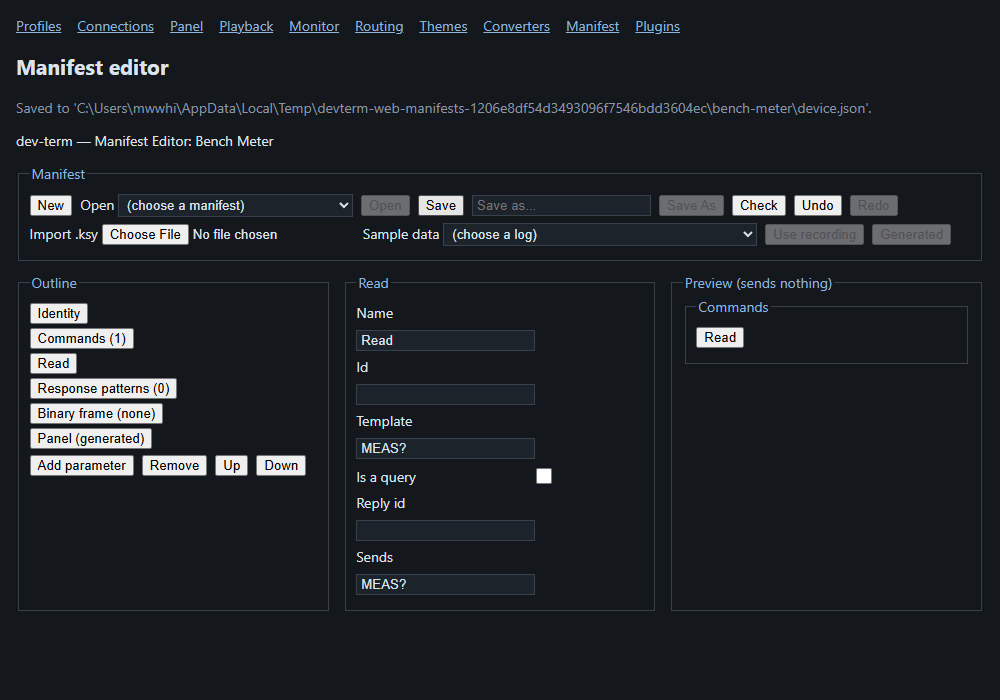
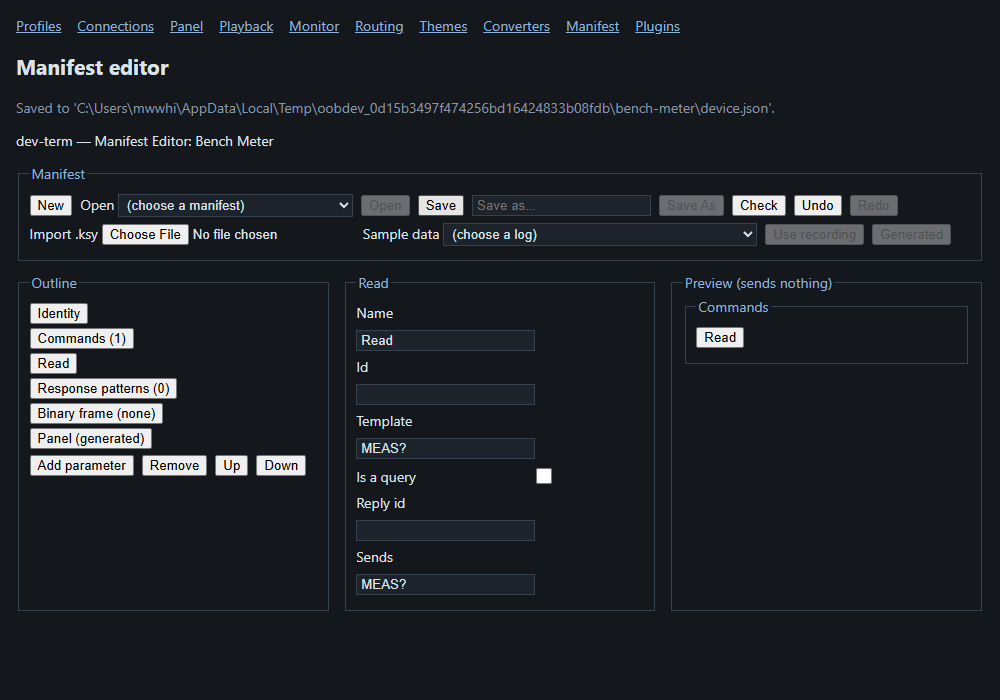
Take the Web test folders and files from the temp handles

Changed region(s): [[0.31, 0.15, 0.868, 0.18]]

diff --git a/src/Applications/DevTerm/OoBDev.DevTerm.Web.Tests/WebScreenshotTests.cs b/src/Applications/DevTerm/OoBDev.DevTerm.Web.Tests/WebScreenshotTests.cs
@@ -109,7 +109,7 @@ public class WebScreenshotTests
 
     private static string BenchProject()
     {
-        var file = Path.Combine(Path.GetTempPath(), $"devterm-web-shot-{Guid.NewGuid():N}.json");
+        var file = WebTestTemp.File("bench.json");
         ProjectFile.From("Bench", [("Scope", new CliOptions { Transport = "loopback", Presenter = ["ascii"] }), ("Supply", new CliOptions { Transport = "loopback", Presenter = ["hex"] })]).Save(file);
         return file;
     }
@@ -117,8 +117,7 @@ public class WebScreenshotTests
     /// <summary>A small session log in a temp folder: connect, send "hello", a reply, then a note-free close.</summary>
     internal static string SampleLogs()
     {
-        var dir = Path.Combine(Path.GetTempPath(), $"devterm-web-logs-{Guid.NewGuid():N}");
-        Directory.CreateDirectory(dir);
+        var dir = WebTestTemp.Directory();
         var t0 = new DateTimeOffset(2026, 10, 8, 12, 0, 0, TimeSpan.Zero);
         var header = new OoBDev.DevTerm.Logging.SessionLogHeader { Created = t0, Connection = "loopback", Profile = "Scope", Presenters = ["ascii"] };
         OoBDev.DevTerm.Logging.SessionLogRecord Rec(OoBDev.DevTerm.Logging.SessionLogRecordKind kind, int ms, string? data = null) =>
@@ -184,7 +183,7 @@ public class WebScreenshotTests
     [TestMethod]
     public async Task ThemesPage_BuildsAndSavesATheme()
     {
-        var themes = Path.Combine(Path.GetTempPath(), "devterm-web-themes-" + Guid.NewGuid().ToString("N"));
+        var themes = WebTestTemp.Directory();
         await RunAsync(async (page, baseUrl) =>
         {
             await page.GotoAsync($"{baseUrl}/themes?token=demo-token");
@@ -230,7 +229,7 @@ public class WebScreenshotTests
     [TestMethod]
     public async Task ConvertersPage_AddsATool_ValidatesAndSaves()
     {
-        var file = Path.Combine(Path.GetTempPath(), "devterm-web-conv-" + Guid.NewGuid().ToString("N") + ".json");
+        var file = WebTestTemp.File("converters.json");
         await RunAsync(async (page, baseUrl) =>
         {
             await page.GotoAsync($"{baseUrl}/converters?token=demo-token");
@@ -273,7 +272,7 @@ public class WebScreenshotTests
     [TestMethod]
     public async Task PluginsPage_ApprovesAWaitingPluginLive_ThenForgetsIt()
     {
-        var home = Path.Combine(Path.GetTempPath(), $"devterm-web-plugins-{Guid.NewGuid():N}");
+        var home = WebTestTemp.Directory();
         var folder = Path.Combine(home, "plugins", "shout");
         Directory.CreateDirectory(folder);
         File.WriteAllText(Path.Combine(folder, "shout.py"), "print('x')");
@@ -312,7 +311,7 @@ public class WebScreenshotTests
     [TestMethod]
     public async Task PluginsPage_ReadOnlyViewer_CannotApprove()
     {
-        var home = Path.Combine(Path.GetTempPath(), $"devterm-web-plugins-{Guid.NewGuid():N}");
+        var home = WebTestTemp.Directory();
         var folder = Path.Combine(home, "plugins", "shout");
         Directory.CreateDirectory(folder);
         File.WriteAllText(Path.Combine(folder, "shout.py"), "print('x')");
@@ -343,7 +342,7 @@ public class WebScreenshotTests
     [TestMethod]
     public async Task ManifestPage_BuildsAManifest_ChecksAndSavesIt()
     {
-        var folder = Path.Combine(Path.GetTempPath(), $"devterm-web-manifests-{Guid.NewGuid():N}");
+        var folder = WebTestTemp.Directory();
         await RunAsync(async (page, baseUrl) =>
         {
             await page.GotoAsync($"{baseUrl}/manifest?token=demo-token");
@@ -377,7 +376,7 @@ public class WebScreenshotTests
     [TestMethod]
     public async Task ManifestPage_ImportsAKsyUpload_AndOffersTheRecordings()
     {
-        var folder = Path.Combine(Path.GetTempPath(), $"devterm-web-manifests-{Guid.NewGuid():N}");
+        var folder = WebTestTemp.Directory();
         await RunAsync(async (page, baseUrl) =>
         {
             await page.GotoAsync($"{baseUrl}/manifest?token=demo-token");
@@ -405,7 +404,7 @@ public class WebScreenshotTests
     [TestMethod]
     public async Task ManifestPage_PreviewsThePanel_PicksValues_AndSavesACopy()
     {
-        var folder = Path.Combine(Path.GetTempPath(), $"devterm-web-manifests-{Guid.NewGuid():N}");
+        var folder = WebTestTemp.Directory();
         await RunAsync(async (page, baseUrl) =>
         {
             await page.GotoAsync($"{baseUrl}/manifest?token=demo-token");

diff --git a/src/Applications/DevTerm/OoBDev.DevTerm.Web.Tests/WebTestTemp.cs b/src/Applications/DevTerm/OoBDev.DevTerm.Web.Tests/WebTestTemp.cs
@@ -1,0 +1,33 @@
+using System;
+using System.Collections.Concurrent;
+using Microsoft.VisualStudio.TestTools.UnitTesting;
+using OoBDev.System.IO;
+
+namespace OoBDev.DevTerm.Web.Tests;
+
+/// <summary>Temp folders and files for helpers that hand a path to a web host and outlive a single test; disposed once at the end of the run.</summary>
+[TestClass]
+public static class WebTestTemp
+{
+    private static readonly ConcurrentBag<IDisposable> _handles = [];
+
+    /// <summary>A new, empty temp folder.</summary>
+    public static string Directory()
+    {
+        var handle = new TempDirectoryHandle();
+        _handles.Add(handle);
+        return handle.DirectoryPath;
+    }
+
+    /// <summary>A path for a file inside a new temp folder.</summary>
+    public static string File(string name) => global::System.IO.Path.Combine(Directory(), name);
+
+    [AssemblyCleanup]
+    public static void DeleteAll()
+    {
+        while (_handles.TryTake(out var handle))
+        {
+            handle.Dispose();
+        }
+    }
+}

diff --git a/src/Applications/DevTerm/OoBDev.DevTerm.Web.Tests/WebLayoutReviewTests.cs b/src/Applications/DevTerm/OoBDev.DevTerm.Web.Tests/WebLayoutReviewTests.cs
@@ -164,7 +164,7 @@ public sealed class WebLayoutReviewTests
             await client.GetStream().WriteAsync(WebScreenshotTests.SampleBitmap());
             await Task.Delay(5000);
         });
-        var options = new CliOptions { Transport = "tcp", Host = "127.0.0.1", Port = ((IPEndPoint)device.LocalEndpoint).Port.ToString(global::System.Globalization.CultureInfo.InvariantCulture), Presenter = ["hex"], Tui = false, Cli = true, ExportDirectory = Path.Combine(Path.GetTempPath(), $"devterm-web-exports-{Guid.NewGuid():N}") };
+        var options = new CliOptions { Transport = "tcp", Host = "127.0.0.1", Port = ((IPEndPoint)device.LocalEndpoint).Port.ToString(global::System.Globalization.CultureInfo.InvariantCulture), Presenter = ["hex"], Tui = false, Cli = true, ExportDirectory = WebTestTemp.Directory() };
         var problems = await ReviewAsync("light", width, height, async (page, baseUrl) =>
         {
             await page.GotoAsync($"{baseUrl}/monitor?token=demo-token");

diff --git a/src/Applications/DevTerm/OoBDev.DevTerm.Web.Tests/AspireMetricsTests.cs b/src/Applications/DevTerm/OoBDev.DevTerm.Web.Tests/AspireMetricsTests.cs
@@ -48,7 +48,7 @@ public sealed class AspireMetricsTests
         await page.GotoAsync("http://127.0.0.1:18888/metrics/resource/devterm");
         await page.WaitForTimeoutAsync(5000);
         var text = await page.InnerTextAsync("body");
-        File.WriteAllText(Path.Combine(Path.GetTempPath(), "aspire-metrics.txt"), text);
+        File.WriteAllText(WebTestTemp.File("aspire-metrics.txt"), text);
         StringAssert.Contains(text, "devterm.bytes.sent");
     }
 }

diff --git a/src/Applications/DevTerm/OoBDev.DevTerm.Web.Tests/WebUserFlowTests.cs b/src/Applications/DevTerm/OoBDev.DevTerm.Web.Tests/WebUserFlowTests.cs
@@ -29,7 +29,7 @@ public sealed class WebUserFlowTests : UserFlowTestsBase
 {
     private static string FlowProject()
     {
-        var file = Path.Combine(Path.GetTempPath(), $"devterm-web-flow-{Guid.NewGuid():N}.json");
+        var file = WebTestTemp.File("flow.json");
         ProjectFile.From("Flow", [("Fresh", new CliOptions { Transport = "loopback", Presenter = ["ascii"], Parser = "ascii" })]).Save(file);
         return file;
     }

diff --git a/docs/changes/temp-directory-factory-2026-11-04.md b/docs/changes/temp-directory-factory-2026-11-04.md
@@ -6,4 +6,4 @@
 
 Tests: `TempDirectoryHandleTests` (nested delete, double dispose, held-open file, distinct directories from the factory); `OoBDev.System.Tests` temp tests 6 of 6 pass.
 
-Callers moved so far: the project files in `OoBDev.DevTerm.Web.Tests` (`WebHostTests`, `WebLayoutReviewTests`) use `TempFileHandle`, and the folders in `ConnectionManagerStoreTests` and `WebManifestEditorTests` use `TempDirectoryHandle` (6 of 6 pass), and the certificate files in `WebRolesTests` use `TempFileHandle` (2 of 2 pass); the monitor page test in `WebScreenshotTests` saves its captures in a `TempDirectoryHandle`, whose shorter fixed-length path no longer wraps in `web-blazor-monitor.png`, so the mask zones for the saving and saved paths in `zones.json` were moved to the new layout and the image is now identical across reruns; the guide screenshot temp files in `WebScreenshotTests` use `TempFileHandle` with an explicit PNG type (37 of 37 pass, no guide image changed); `GuideImage.Write` and the log file in `UserFlowTestsBase` use `TempFileHandle` too (Tui and Wpf screenshot tests 26 and 21 pass); the `InTemp` helper of Core `ManifestEditorTests` uses `TempDirectoryHandle` (35 of 35 pass); `ProjectFileTests` use `TempFileHandle` and `TempDirectoryHandle`, and `ConnectionProfileStoreTests` take their folders from `TempDirectoryHandle` handles disposed in `[TestCleanup]` (42 of 42 pass with both classes); the four Core `Logging` test classes use `TempFileHandle` and `TempDirectoryHandle` fixtures (78 of 78 Logging tests pass); the three Core `Plugins` test classes use `TempDirectoryHandle` (22 pass, 3 skip where python is missing, as before); `AtomicFileTests`, `ConnectionDescriptionTests`, `ConnectionEditorFormTests` and `ConnectionEditorViewModelTests` use `TempDirectoryHandle` (142 of 142 pass with the three classes that share the filter); the rest of the Core `Configuration` tests (converter tools, configuration and routing files, round trip, window state, panel hints, retention, section state, session tab, stream monitor, themes) use `TempFileHandle` or `TempDirectoryHandle`, and the assembly-wide `DEVTERM_HOME` folder in `TestEnvironment` is now a handle disposed in `[AssemblyCleanup]` (534 of 534 Configuration tests pass); `DevTermUserDataPathsTests`, `DeviceManifestTests`, `ManifestControlSurfaceTests` and `SchemaGeneratorTests` use the handles too, which finishes the Core tests (172 of 172 pass with the filter); the Tui.Tests classes (profile, export, plugin, playback, theme and layout folders, the bench export folder, and the assembly `DEVTERM_HOME`) use the handles too (370 of 370 Unit tests pass; `tui-plugin-approval.png` is byte-identical across reruns, its mask zone moved to the shorter temp path); the Wpf.Tests classes (device scans, connection editor, theme startup, playback, routing, shell, session log, stream capture and converter tools) use the handles too (173 of 173 pass, no guide image changed); the Web.Tests suite ran 105 passed, 0 failed, 1 skipped before the 5-minute run timeout aborted the run (about 4 m 48 s). The remaining callers are tracked in `BACKLOG.md`, section Test infrastructure.
+Callers moved so far: the project files in `OoBDev.DevTerm.Web.Tests` (`WebHostTests`, `WebLayoutReviewTests`) use `TempFileHandle`, and the folders in `ConnectionManagerStoreTests` and `WebManifestEditorTests` use `TempDirectoryHandle` (6 of 6 pass), and the certificate files in `WebRolesTests` use `TempFileHandle` (2 of 2 pass); the monitor page test in `WebScreenshotTests` saves its captures in a `TempDirectoryHandle`, whose shorter fixed-length path no longer wraps in `web-blazor-monitor.png`, so the mask zones for the saving and saved paths in `zones.json` were moved to the new layout and the image is now identical across reruns; the guide screenshot temp files in `WebScreenshotTests` use `TempFileHandle` with an explicit PNG type (37 of 37 pass, no guide image changed); `GuideImage.Write` and the log file in `UserFlowTestsBase` use `TempFileHandle` too (Tui and Wpf screenshot tests 26 and 21 pass); the `InTemp` helper of Core `ManifestEditorTests` uses `TempDirectoryHandle` (35 of 35 pass); `ProjectFileTests` use `TempFileHandle` and `TempDirectoryHandle`, and `ConnectionProfileStoreTests` take their folders from `TempDirectoryHandle` handles disposed in `[TestCleanup]` (42 of 42 pass with both classes); the four Core `Logging` test classes use `TempFileHandle` and `TempDirectoryHandle` fixtures (78 of 78 Logging tests pass); the three Core `Plugins` test classes use `TempDirectoryHandle` (22 pass, 3 skip where python is missing, as before); `AtomicFileTests`, `ConnectionDescriptionTests`, `ConnectionEditorFormTests` and `ConnectionEditorViewModelTests` use `TempDirectoryHandle` (142 of 142 pass with the three classes that share the filter); the rest of the Core `Configuration` tests (converter tools, configuration and routing files, round trip, window state, panel hints, retention, section state, session tab, stream monitor, themes) use `TempFileHandle` or `TempDirectoryHandle`, and the assembly-wide `DEVTERM_HOME` folder in `TestEnvironment` is now a handle disposed in `[AssemblyCleanup]` (534 of 534 Configuration tests pass); `DevTermUserDataPathsTests`, `DeviceManifestTests`, `ManifestControlSurfaceTests` and `SchemaGeneratorTests` use the handles too, which finishes the Core tests (172 of 172 pass with the filter); the Tui.Tests classes (profile, export, plugin, playback, theme and layout folders, the bench export folder, and the assembly `DEVTERM_HOME`) use the handles too (370 of 370 Unit tests pass; `tui-plugin-approval.png` is byte-identical across reruns, its mask zone moved to the shorter temp path); the Wpf.Tests classes (device scans, connection editor, theme startup, playback, routing, shell, session log, stream capture and converter tools) use the handles too (173 of 173 pass, no guide image changed); the Web.Tests suite ran 105 passed, 0 failed, 1 skipped before the 5-minute run timeout aborted the run (about 4 m 48 s). The last Web.Tests callers (`WebScreenshotTests` folders and files, `WebUserFlowTests`, `AspireMetricsTests`, the export folder in `WebLayoutReviewTests`) take their paths from the new `WebTestTemp` helper, which keeps `TempDirectoryHandle` objects for paths handed to a web host and disposes them in `[AssemblyCleanup]` (61 of 61 pass in the filtered screenshot, flow, layout and manifest classes; the plugins and manifest guide images moved with the shorter temp path, their mask zones widened, and both are byte-identical across reruns). Paths to folders that do not exist stay hand-built by judgment.

diff --git a/BACKLOG.md b/BACKLOG.md
@@ -27,7 +27,6 @@ Owner: all protocols and features of dev-term must exist here. Done means what d
 - [ ] Saint George score machine: priority is read from the `P` byte itself, so it is never set (ported as-is); settle the real byte from a captured frame, and add a Hardware test for Favero and Saint George when a machine is available.
 
 ## 3. Test infrastructure
-- [x] Move the remaining test/tool files that build temp folders by hand (`Path.GetTempPath()`) onto `ITempFileFactory.GetTempDirectory()` (coding-standards rule), a project at a time. Done: `OoBDev.DevTerm.Core.Tests`, `Tui.Tests`, `Wpf.Tests` and most of `Web.Tests`. Next: the rest of `WebScreenshotTests`, `WebUserFlowTests` and `AspireMetricsTests` in `Web.Tests`. Detail: [change](docs/changes/temp-directory-factory-2026-11-04.md).
 
 - [ ] Integration coverage gaps: Azure runs on emulators only (Azurite, Service Bus emulator, no Azure licence); Moto is used only for SQS, so S3 tests wait for an S3 adapter.
 - [ ] Integration suite under 5 minutes (now 7 min 54 s; the no-flaky-tests goal is met): [suite-timing.md](docs/architecture/testing/integration/suite-timing.md).
